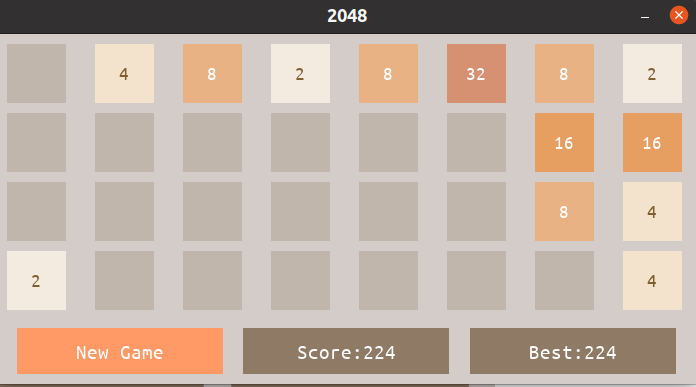
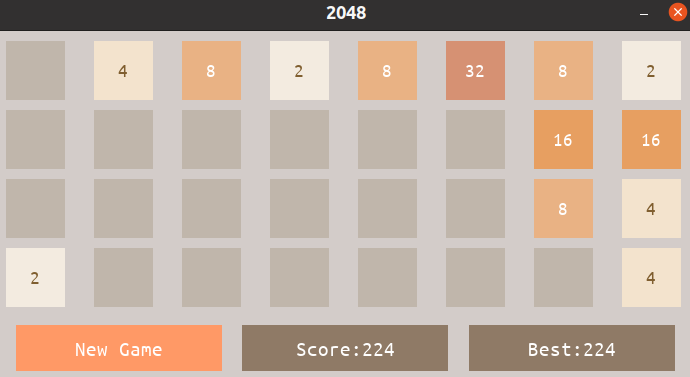
Updated README, modified screenshots

diff --git a/command-line-2048/README.md b/command-line-2048/README.md
@@ -1,11 +1,13 @@
 # 2048-CLI
 
-Welcome to my CLI implementation of the 2048 game. It can be played generally on any CLI, but has been tested on Windows CMD and Linux terminal. The game is a regular 2048 game, implemented in C++, in a modular fashion. 
+Welcome to my CLI implementation of the 2048 game. It can be played generally on any CLI, but has been tested on Windows CMD and Linux terminal. The game is a regular 2048 game (with some modifications and new features) implemented in C++ in a modular fashion.
 
 ### Key features - 
-* Apart from the regular moves, I have implemented 2 other moves for the user, namely **undo** and **hint**. Undo function displays the board (and score of the player) before the latest move. Hint function displays the state of the board after each of the 4 possible moves (up,down,left,right) is made individually. This would help the player make a more informed choice. It can be used at max twice in my version, but can be tweaked if required. 
+* Apart from the regular moves, I have implemented 2 other moves for the user, namely **undo** and **hint**. Undo function displays the board (and score of the player) before the latest move. Hint function displays the state of the board after each of the 4 possible moves (up, down, left, right) is made individually. This would help the player make a more informed choice. It can be used at max twice in my version, but can be tweaked if required.
+
 * Since the game is command line based, keys 'a', 's', 'd', 'w', 'u', 'h' should be used to play the game for left, down, right, up, undo and hint moves respectively. Each such character needs to be followed by 'Enter' key.
-* The game prompts user to enter a correct character, if a wrong character is entered or multiple characters are entered at once. The character 'q' can be used to quit the game.
+
+* The game prompts the player to enter a correct character, if a wrong character is entered or multiple characters are entered at once. The character 'q' can be used to quit the game.
 
 ### How to play on your machine ?
-To play the game locally, clone the repository and download the source files. From inside the `src` directory, if you are a Linux/Mac user, run the command `make` on terminal. Just doing this will run the makefile and produce the executable. If you are a windows user using cmd, run `g++ driver.cpp core.cpp helper.cpp moves.cpp`, in case you are not able to run the makefile.
+To play the game locally, clone the repository and download the source files. From inside the `src` directory, if you are a Linux/Mac user, run the command `make` on terminal. Just doing this will run the makefile and produce the executable. If you are a windows user using CMD, run `g++ driver.cpp core.cpp helper.cpp moves.cpp`, in case you are not able to run the makefile.

diff --git a/README.md b/README.md
@@ -2,7 +2,7 @@
 My take on the 2048 game in C++. Play from command line (terminal) or GUI.
 
 ## Contributing
-Feel free to raise issues in case there are any issues or a PR if you wish to contribute to the project. Changes and improvements are more than welcome! Please make your changes in a specific branch and request to pull into `master`.
+Feel free to raise issues in case there are any issues or a PR if you wish to contribute to the project. Changes and improvements are more than welcome! Please make your changes in a specific branch and request to pull into `main`.
 
 ## License
-Copyright (c) 2021 Shreyansh Joshi. Released under the MIT License. See [LICENSE](LICENSE) for details.
+Copyright (c) 2022 Shreyansh Joshi. Released under the MIT License. See [LICENSE](LICENSE) for details.
